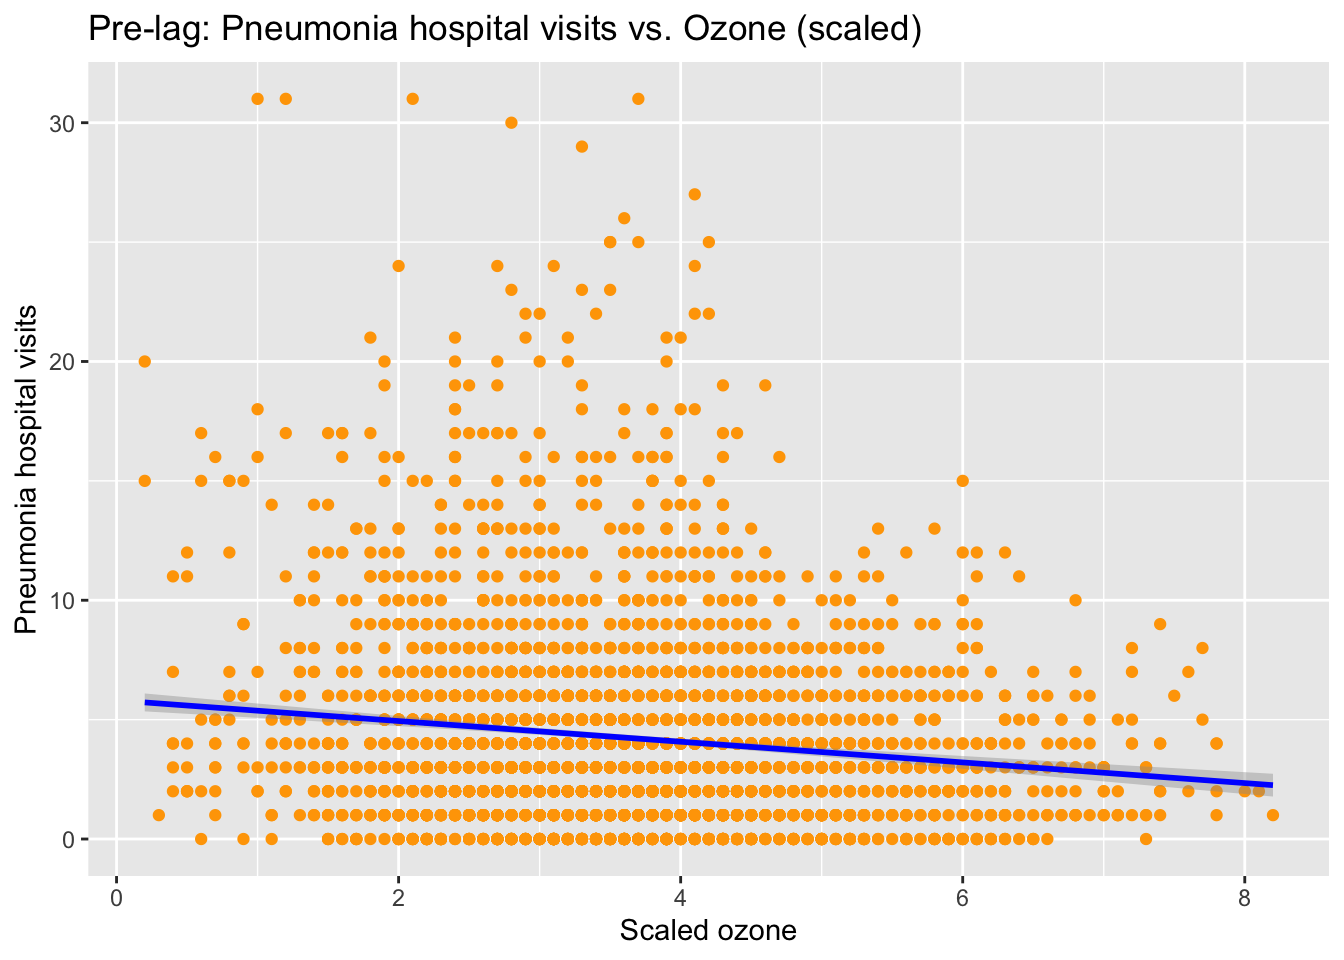
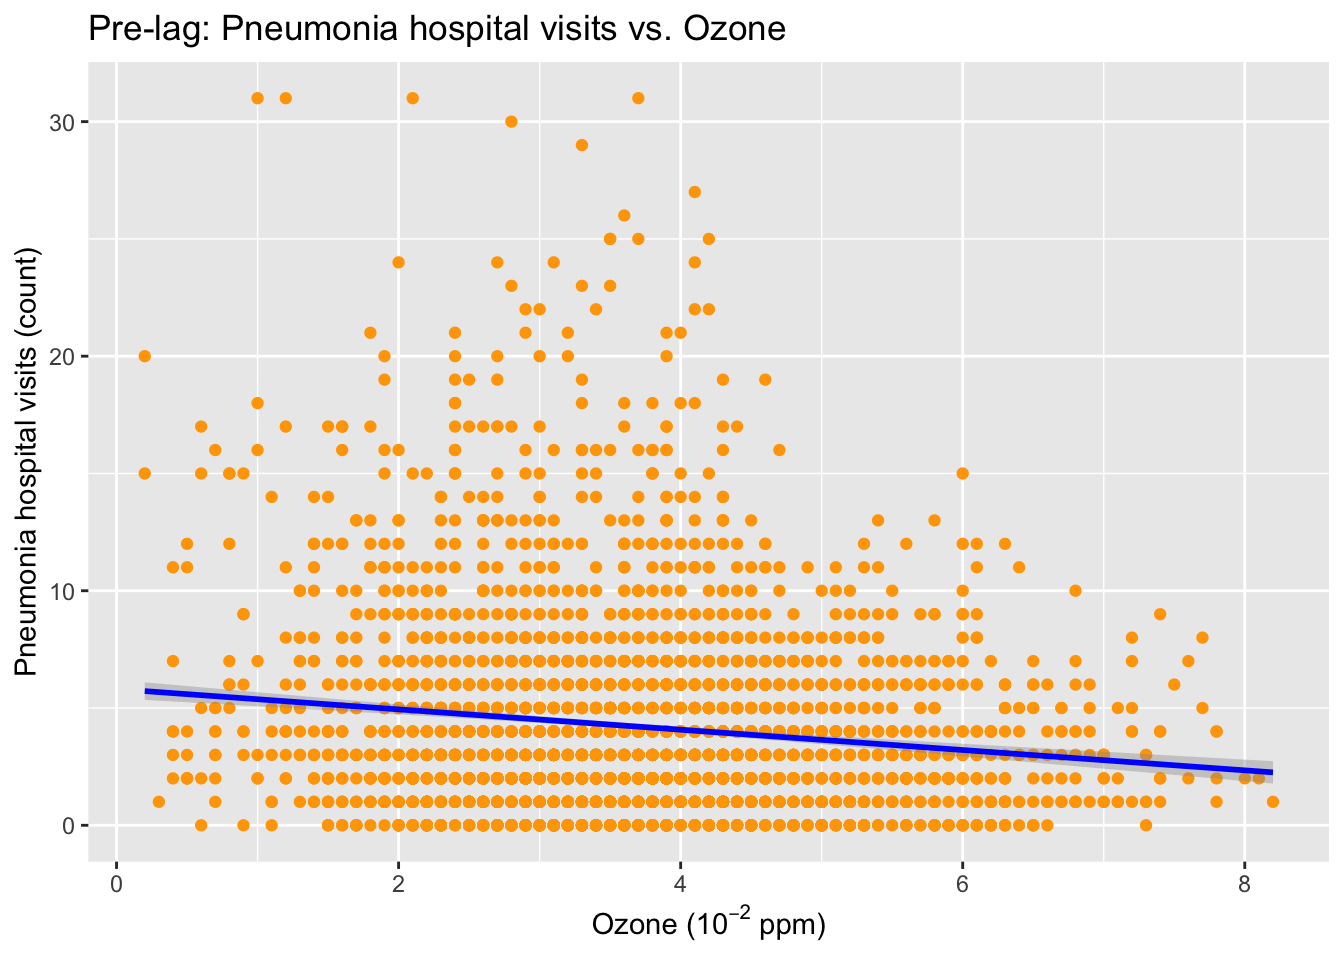
Cosmetic changes

diff --git a/data_processing.html b/data_processing.html
@@ -549,7 +549,7 @@ er_plot</code></pre>
     numeric_month = match(month, month.name),
     date = as.Date(paste(year, numeric_month, day, sep = &quot;-&quot;), format = &quot;%Y-%m-%d&quot;)
   ) |&gt; 
-  ggplot(aes(x = date, y = total_ed_visits)) +
+  ggplot(aes(x = date, y = total_ed_visits, color = &quot;#9D5FF3&quot;)) +
   geom_point() +
   labs(title = &quot;Daily total ER visits by zip&quot;,
        y = &quot;Total ER visits&quot;) +
@@ -694,167 +694,38 @@ poll_plot</code></pre>
          lagged_o3 = lag(scaled_o3, n = 117)
   )
 print(ccf(ccf_df$o3_ppm, ccf_df$ili_pne_admissions, lag.max=250))</code></pre>
-<p><img src="data_processing_files/figure-html/unnamed-chunk-8-1.png" width="672" /></p>
-<pre><code>## 
-## Autocorrelations of series &#39;X&#39;, by lag
-## 
-##   -250   -249   -248   -247   -246   -245   -244   -243   -242   -241   -240 
-## -0.014  0.014  0.014  0.023  0.023  0.019  0.020  0.018  0.014  0.025  0.023 
-##   -239   -238   -237   -236   -235   -234   -233   -232   -231   -230   -229 
-##  0.040  0.037  0.043  0.018  0.026  0.031  0.039  0.049  0.032  0.043  0.055 
-##   -228   -227   -226   -225   -224   -223   -222   -221   -220   -219   -218 
-##  0.047  0.046  0.035  0.046  0.056  0.051  0.067  0.063  0.060  0.063  0.077 
-##   -217   -216   -215   -214   -213   -212   -211   -210   -209   -208   -207 
-##  0.087  0.081  0.076  0.077  0.078  0.071  0.085  0.095  0.109  0.096  0.108 
-##   -206   -205   -204   -203   -202   -201   -200   -199   -198   -197   -196 
-##  0.110  0.112  0.111  0.107  0.095  0.090  0.097  0.084  0.105  0.102  0.100 
-##   -195   -194   -193   -192   -191   -190   -189   -188   -187   -186   -185 
-##  0.115  0.124  0.122  0.121  0.117  0.125  0.131  0.134  0.147  0.131  0.142 
-##   -184   -183   -182   -181   -180   -179   -178   -177   -176   -175   -174 
-##  0.127  0.127  0.124  0.139  0.148  0.132  0.140  0.141  0.145  0.147  0.145 
-##   -173   -172   -171   -170   -169   -168   -167   -166   -165   -164   -163 
-##  0.156  0.158  0.159  0.162  0.153  0.143  0.155  0.155  0.159  0.155  0.160 
-##   -162   -161   -160   -159   -158   -157   -156   -155   -154   -153   -152 
-##  0.159  0.163  0.159  0.157  0.157  0.167  0.166  0.163  0.166  0.152  0.145 
-##   -151   -150   -149   -148   -147   -146   -145   -144   -143   -142   -141 
-##  0.147  0.150  0.156  0.162  0.158  0.159  0.148  0.152  0.141  0.138  0.147 
-##   -140   -139   -138   -137   -136   -135   -134   -133   -132   -131   -130 
-##  0.136  0.136  0.148  0.150  0.141  0.147  0.132  0.116  0.118  0.118  0.109 
-##   -129   -128   -127   -126   -125   -124   -123   -122   -121   -120   -119 
-##  0.105  0.103  0.097  0.107  0.106  0.086  0.079  0.075  0.082  0.070  0.066 
-##   -118   -117   -116   -115   -114   -113   -112   -111   -110   -109   -108 
-##  0.065  0.068  0.072  0.059  0.056  0.052  0.040  0.045  0.029  0.024  0.026 
-##   -107   -106   -105   -104   -103   -102   -101   -100    -99    -98    -97 
-##  0.037  0.047  0.028  0.012  0.009  0.005  0.004 -0.005 -0.012  0.006 -0.015 
-##    -96    -95    -94    -93    -92    -91    -90    -89    -88    -87    -86 
-## -0.032 -0.026 -0.040 -0.036 -0.041 -0.040 -0.045 -0.045 -0.051 -0.052 -0.049 
-##    -85    -84    -83    -82    -81    -80    -79    -78    -77    -76    -75 
-## -0.061 -0.069 -0.079 -0.056 -0.068 -0.076 -0.081 -0.081 -0.077 -0.077 -0.080 
-##    -74    -73    -72    -71    -70    -69    -68    -67    -66    -65    -64 
-## -0.085 -0.084 -0.093 -0.091 -0.082 -0.108 -0.104 -0.105 -0.117 -0.113 -0.112 
-##    -63    -62    -61    -60    -59    -58    -57    -56    -55    -54    -53 
-## -0.129 -0.130 -0.124 -0.107 -0.096 -0.123 -0.141 -0.141 -0.126 -0.125 -0.134 
-##    -52    -51    -50    -49    -48    -47    -46    -45    -44    -43    -42 
-## -0.127 -0.133 -0.120 -0.123 -0.129 -0.132 -0.136 -0.138 -0.131 -0.142 -0.138 
-##    -41    -40    -39    -38    -37    -36    -35    -34    -33    -32    -31 
-## -0.127 -0.123 -0.125 -0.146 -0.138 -0.133 -0.125 -0.132 -0.133 -0.136 -0.125 
-##    -30    -29    -28    -27    -26    -25    -24    -23    -22    -21    -20 
-## -0.110 -0.106 -0.103 -0.105 -0.123 -0.104 -0.092 -0.086 -0.096 -0.087 -0.087 
-##    -19    -18    -17    -16    -15    -14    -13    -12    -11    -10     -9 
-## -0.096 -0.097 -0.097 -0.070 -0.087 -0.095 -0.087 -0.076 -0.069 -0.081 -0.086 
-##     -8     -7     -6     -5     -4     -3     -2     -1      0      1      2 
-## -0.074 -0.060 -0.059 -0.054 -0.056 -0.050 -0.046 -0.047 -0.052 -0.037 -0.029 
-##      3      4      5      6      7      8      9     10     11     12     13 
-## -0.032 -0.049 -0.040 -0.032 -0.027 -0.020 -0.022 -0.031 -0.020 -0.015 -0.002 
-##     14     15     16     17     18     19     20     21     22     23     24 
-##  0.007  0.002  0.009 -0.016 -0.002  0.003  0.011 -0.013 -0.010 -0.009 -0.003 
-##     25     26     27     28     29     30     31     32     33     34     35 
-##  0.007  0.019  0.012 -0.006  0.012  0.032  0.024  0.027  0.012  0.008  0.010 
-##     36     37     38     39     40     41     42     43     44     45     46 
-##  0.021  0.038  0.030  0.026  0.017  0.023  0.019  0.020  0.030  0.031  0.024 
-##     47     48     49     50     51     52     53     54     55     56     57 
-##  0.025  0.015  0.025  0.033  0.033  0.034  0.046  0.029  0.025  0.033  0.039 
-##     58     59     60     61     62     63     64     65     66     67     68 
-##  0.040  0.055  0.041  0.034  0.039  0.055  0.055  0.047  0.063  0.076  0.067 
-##     69     70     71     72     73     74     75     76     77     78     79 
-##  0.090  0.079  0.077  0.093  0.107  0.099  0.114  0.099  0.092  0.100  0.106 
-##     80     81     82     83     84     85     86     87     88     89     90 
-##  0.099  0.089  0.083  0.089  0.096  0.093  0.095  0.112  0.116  0.111  0.117 
-##     91     92     93     94     95     96     97     98     99    100    101 
-##  0.135  0.147  0.124  0.137  0.117  0.118  0.119  0.141  0.143  0.130  0.127 
-##    102    103    104    105    106    107    108    109    110    111    112 
-##  0.147  0.147  0.136  0.147  0.167  0.169  0.157  0.163  0.185  0.195  0.177 
-##    113    114    115    116    117    118    119    120    121    122    123 
-##  0.178  0.176  0.187  0.182  0.205  0.185  0.170  0.176  0.169  0.174  0.172 
-##    124    125    126    127    128    129    130    131    132    133    134 
-##  0.186  0.179  0.158  0.141  0.149  0.144  0.159  0.137  0.122  0.123  0.120 
-##    135    136    137    138    139    140    141    142    143    144    145 
-##  0.128  0.120  0.117  0.108  0.112  0.108  0.113  0.097  0.094  0.085  0.073 
-##    146    147    148    149    150    151    152    153    154    155    156 
-##  0.087  0.096  0.099  0.084  0.075  0.070  0.057  0.064  0.065  0.055  0.063 
-##    157    158    159    160    161    162    163    164    165    166    167 
-##  0.061  0.059  0.056  0.052  0.050  0.042  0.042  0.035  0.034  0.039  0.039 
-##    168    169    170    171    172    173    174    175    176    177    178 
-##  0.037  0.038  0.037  0.042  0.032  0.044  0.032  0.051  0.033  0.030  0.024 
-##    179    180    181    182    183    184    185    186    187    188    189 
-##  0.022  0.037  0.023  0.019  0.034  0.023  0.018  0.014  0.007  0.000  0.007 
-##    190    191    192    193    194    195    196    197    198    199    200 
-##  0.007  0.006 -0.006 -0.008 -0.007 -0.007 -0.011 -0.027 -0.038 -0.032 -0.041 
-##    201    202    203    204    205    206    207    208    209    210    211 
-## -0.041 -0.045 -0.035 -0.038 -0.047 -0.054 -0.060 -0.054 -0.066 -0.061 -0.048 
-##    212    213    214    215    216    217    218    219    220    221    222 
-## -0.039 -0.044 -0.040 -0.027 -0.052 -0.045 -0.057 -0.036 -0.039 -0.031 -0.055 
-##    223    224    225    226    227    228    229    230    231    232    233 
-## -0.057 -0.052 -0.050 -0.052 -0.062 -0.060 -0.062 -0.067 -0.074 -0.063 -0.061 
-##    234    235    236    237    238    239    240    241    242    243    244 
-## -0.066 -0.079 -0.075 -0.077 -0.082 -0.092 -0.099 -0.089 -0.083 -0.106 -0.107 
-##    245    246    247    248    249    250 
-## -0.100 -0.101 -0.112 -0.112 -0.109 -0.110</code></pre>
+<p><img src="data_processing_files/figure-html/unnamed-chunk-8-1.png" width="100%" /></p>
 <pre class="r"><code># Visualize lag
 
 ccf_df |&gt; 
   ggplot() +
-  geom_point(aes(x = date_lag, y = scaled_o3), color = &quot;#440154&quot;) +
-  geom_point(aes(x = date, y = ili_pne_visits), color = &quot;#D8B26A&quot;) +
+  geom_point(aes(x = date_lag, y = scaled_o3, color = &quot;Ozone (10^-2 ppm)&quot;)) +
+  geom_point(aes(x = date, y = ili_pne_visits, color = &quot;Pneumonia hospital visits&quot;)) +
   labs(title = &quot;Lagging Ozone variable by 117 days&quot;, 
        x = &quot;Date&quot;,
-       y = &quot;Scaled O3&quot;) +
-  geom_vline(xintercept = as.numeric(as.Date(c(&quot;2021-01-01&quot;, &quot;2022-01-01&quot;, &quot;2023-01-01&quot;))), color = &quot;grey&quot;)</code></pre>
-<p><img src="data_processing_files/figure-html/unnamed-chunk-8-2.png" width="672" /></p>
+       y = &quot;Values&quot;) +
+  scale_color_manual(labels = c(&quot;Ozone (10^-2 ppm)&quot;, &quot;Pneumonia hospital visits&quot;), 
+                     values = c(&quot;Ozone (10^-2 ppm)&quot; = &quot;blue&quot;, &quot;Pneumonia hospital visits&quot; = &quot;#FFA500&quot;), 
+                     guide = &quot;legend&quot;)</code></pre>
+<p><img src="data_processing_files/figure-html/unnamed-chunk-8-2.png" width="100%" /></p>
 <pre class="r"><code>prelag_model = lm(ili_pne_visits ~ scaled_o3, data = ccf_df)
-summary(prelag_model)</code></pre>
-<pre><code>## 
-## Call:
-## lm(formula = ili_pne_visits ~ scaled_o3, data = ccf_df)
-## 
-## Residuals:
-##     Min      1Q  Median      3Q     Max 
-## -5.5475 -2.5946 -0.9882  1.5118 26.7952 
-## 
-## Coefficients:
-##             Estimate Std. Error t value Pr(&gt;|t|)    
-## (Intercept)   5.8074     0.2011  28.877   &lt;2e-16 ***
-## scaled_o3    -0.4331     0.0518  -8.362   &lt;2e-16 ***
-## ---
-## Signif. codes:  0 &#39;***&#39; 0.001 &#39;**&#39; 0.01 &#39;*&#39; 0.05 &#39;.&#39; 0.1 &#39; &#39; 1
-## 
-## Residual standard error: 3.953 on 3649 degrees of freedom
-## Multiple R-squared:  0.0188, Adjusted R-squared:  0.01853 
-## F-statistic: 69.92 on 1 and 3649 DF,  p-value: &lt; 2.2e-16</code></pre>
-<pre class="r"><code>ggplot(aes(x = scaled_o3, 
-           y = ili_pne_visits),
-       data = ccf_df) + 
+summary(prelag_model)
+ggplot(aes(x = scaled_o3, y = ili_pne_visits), data = ccf_df) + 
   geom_point(color = &quot;#FFA500&quot;) +
   geom_smooth(method = &quot;lm&quot;, color = &quot;blue&quot;) +
-  labs(title = &quot;Pre-lag: Pneumonia hospital visits vs. Ozone (scaled)&quot;,
-       x = &quot;Scaled ozone&quot;, 
-       y = &quot;Pneumonia hospital visits&quot;)</code></pre>
-<p><img src="data_processing_files/figure-html/unnamed-chunk-8-3.png" width="672" /></p>
+  labs(title = &quot;Pre-lag: Pneumonia hospital visits vs. Ozone&quot;,
+       x = expression(paste(&quot;Ozone (&quot;, 10^-2, &quot; ppm)&quot;)), 
+       y = &quot;Pneumonia hospital visits (count)&quot;)</code></pre>
+<p><img src="data_processing_files/figure-html/unnamed-chunk-8-3.png" width="100%" /></p>
 <pre class="r"><code>lag_model = lm(ili_pne_visits ~ lagged_o3, data = ccf_df)
-summary(lag_model)</code></pre>
-<pre><code>## 
-## Call:
-## lm(formula = ili_pne_visits ~ lagged_o3, data = ccf_df)
-## 
-## Residuals:
-##     Min      1Q  Median      3Q     Max 
-## -5.7857 -2.5217 -0.8897  1.6270 26.9616 
-## 
-## Coefficients:
-##             Estimate Std. Error t value Pr(&gt;|t|)    
-## (Intercept)  2.73729    0.19172  14.278   &lt;2e-16 ***
-## lagged_o3    0.37175    0.04931   7.539    6e-14 ***
-## ---
-## Signif. codes:  0 &#39;***&#39; 0.001 &#39;**&#39; 0.01 &#39;*&#39; 0.05 &#39;.&#39; 0.1 &#39; &#39; 1
-## 
-## Residual standard error: 3.711 on 3532 degrees of freedom
-##   (117 observations deleted due to missingness)
-## Multiple R-squared:  0.01584,    Adjusted R-squared:  0.01556 
-## F-statistic: 56.83 on 1 and 3532 DF,  p-value: 5.998e-14</code></pre>
-<pre class="r"><code>ggplot(aes(x = lagged_o3, y = ili_pne_visits), data = ccf_df) + 
-  geom_point() +
-  geom_smooth(method = &quot;lm&quot;)</code></pre>
-<p><img src="data_processing_files/figure-html/unnamed-chunk-8-4.png" width="672" /></p>
+summary(lag_model)
+ggplot(aes(x = lagged_o3, y = ili_pne_visits), data = ccf_df) + 
+  geom_point(color = &quot;#FFA500&quot;) +
+  geom_smooth(method = &quot;lm&quot;, color = &quot;blue&quot;) +
+  labs(title = &quot;Post-lag: Pneumonia hospital visits vs. Ozone&quot;,
+       x = expression(paste(&quot;Ozone (&quot;, 10^-2, &quot; ppm)&quot;)), 
+       y = &quot;Pneumonia hospital visits (count)&quot;)</code></pre>
+<p><img src="data_processing_files/figure-html/unnamed-chunk-8-4.png" width="100%" /></p>
 <ul>
 <li>talk about lag? observe seasonal changes</li>
 </ul>
